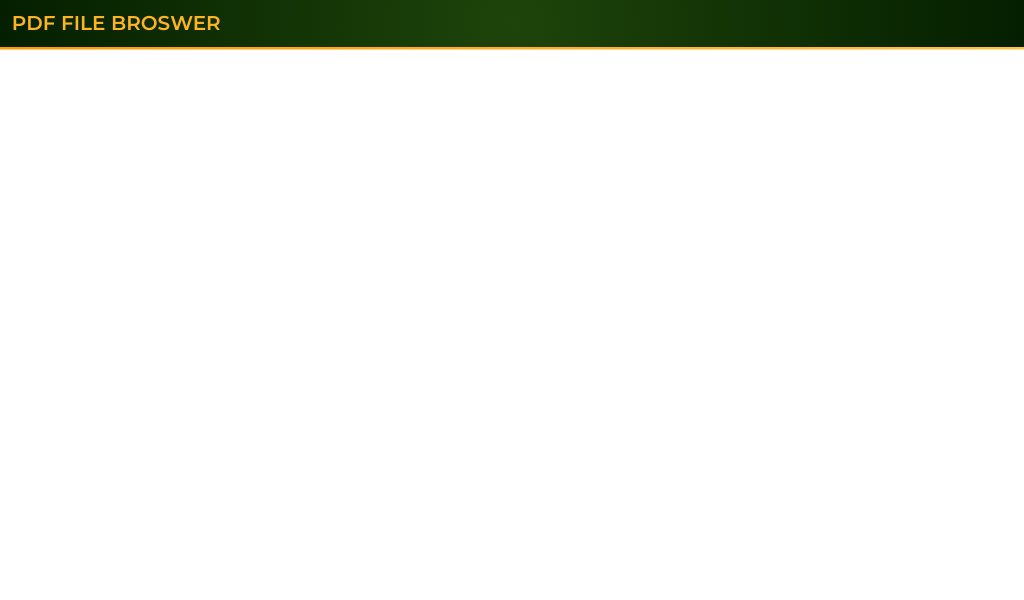
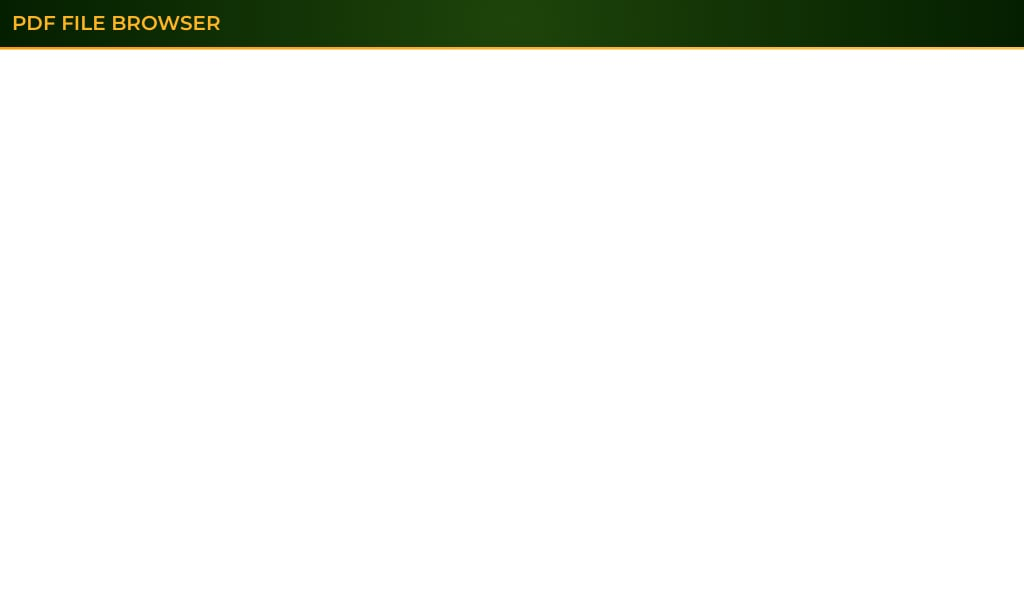
push

Changed region(s): [[0.0, 0.0, 1.0, 0.09]]

diff --git a/SSP/managers/printer_thread.py b/SSP/managers/printer_thread.py
@@ -32,7 +32,7 @@ class PrinterThread(QThread):
             # Build and execute CUPS print command
             command = self.build_print_command()
             config = get_config()
-            # Note: copies are handled in PDF, so temp PDF will have (pages × copies) pages
+            # Copies are handled in PDF, so temp PDF will have (pages × copies) pages
             total_pages_in_pdf = len(self.selected_pages) * self.copies
             print(f"Printing: {len(self.selected_pages)} selected pages × {self.copies} copies = {total_pages_in_pdf} total pages, {self.color_mode}")
             print(f"Command: {' '.join(command)}")
@@ -180,7 +180,7 @@ class PrinterThread(QThread):
             print(f"Temp PDF page count: {actual_pages} (expected: {expected_pages})")
             if actual_pages != expected_pages:
                 error_msg = f"Page count mismatch! Expected {expected_pages}, got {actual_pages}"
-                print(f"⚠ ERROR: {error_msg}")
+                print(f"ERROR: {error_msg}")
                 temp_doc.close()
                 original_doc.close()
                 raise ValueError(error_msg)
@@ -205,14 +205,14 @@ class PrinterThread(QThread):
                 print(f"Verified temp PDF has {verify_page_count} pages")
                 if verify_page_count != expected_pages:
                     error_msg = f"Saved PDF has wrong page count! Expected {expected_pages}, got {verify_page_count}"
-                    print(f"⚠ ERROR: {error_msg}")
+                    print(f"ERROR: {error_msg}")
                     # Clean up the bad file
                     try:
                         os.remove(self.temp_pdf_path)
                     except:
                         pass
                     raise ValueError(error_msg)
-                print(f"✓ Temp PDF verified: {verify_page_count} pages, {self.copies} copies of {len(self.selected_pages)} selected pages")
+                print(f"Temp PDF verified: {verify_page_count} pages, {self.copies} copies of {len(self.selected_pages)} selected pages")
             else:
                 raise Exception("Temp PDF file was not created")
             
@@ -221,6 +221,7 @@ class PrinterThread(QThread):
             self.print_failed.emit(f"Failed to create temporary PDF: {str(e)}")
             self.temp_pdf_path = None
 
+    # Check print job every 3 seconds see if there any error
     def wait_for_print_completion(self, job_id):
         import time
         
@@ -340,15 +341,15 @@ class PrinterThread(QThread):
                         # Check if post-completion monitoring is complete
                         time_since_completion = elapsed_time - completion_time
                         if time_since_completion >= post_completion_wait:
-                            print(f"Print job successful - no printers actively printing and CUPS job completed for {post_completion_wait}s")
+                            print(f"Print job successful no printers actively printing and CUPS job completed for {post_completion_wait}s")
                             return True
                 else:
                     # Printer became active again or CUPS job still active - reset completion timer
                     if completion_time is not None:
                         if printer_actively_printing:
-                            print(f"Printer became active again - resetting completion timer")
+                            print(f"Printer became active again resetting completion timer")
                         if cups_job_still_active:
-                            print(f"CUPS job still active - resetting completion timer")
+                            print(f"CUPS job still active resetting completion timer")
                         completion_time = None
                     if printer_actively_printing:
                         print(f"Waiting for printer '{target_printer}' to finish printing...")
@@ -414,7 +415,6 @@ class PrinterThread(QThread):
         
         print(f"Print command: {' '.join(command)}")
         print(f"Copies value: {self.copies} (type: {type(self.copies)})")
-        print("Separator page option applied: job-sheets=none")
         
         return command
 

diff --git a/SSP/screens/thank_you/model.py b/SSP/screens/thank_you/model.py
@@ -47,8 +47,8 @@ class ThankYouModel(QObject):
         self.current_state = "waiting"
         self.print_job_finished = False  # Reset finished flag for new print job
         self.status_updated.emit(
-            "Thank you for printing with us",
-            "You may now remove your USB."
+            "Your document is being processed.",
+            "Please remove your USB drive."
         )
         self.redirect_timer.stop()
         
@@ -59,6 +59,7 @@ class ThankYouModel(QObject):
         if hasattr(main_app, 'printer_manager'):
             try:
                 main_app.printer_manager.print_job_successful.connect(self._on_print_success)
+                # Also connect to failures - ensures error is shown even if user navigates away
                 main_app.printer_manager.print_job_failed.connect(self._on_print_failed)
             except Exception as e:
                 print(f"Error connecting printer signals: {e}")
